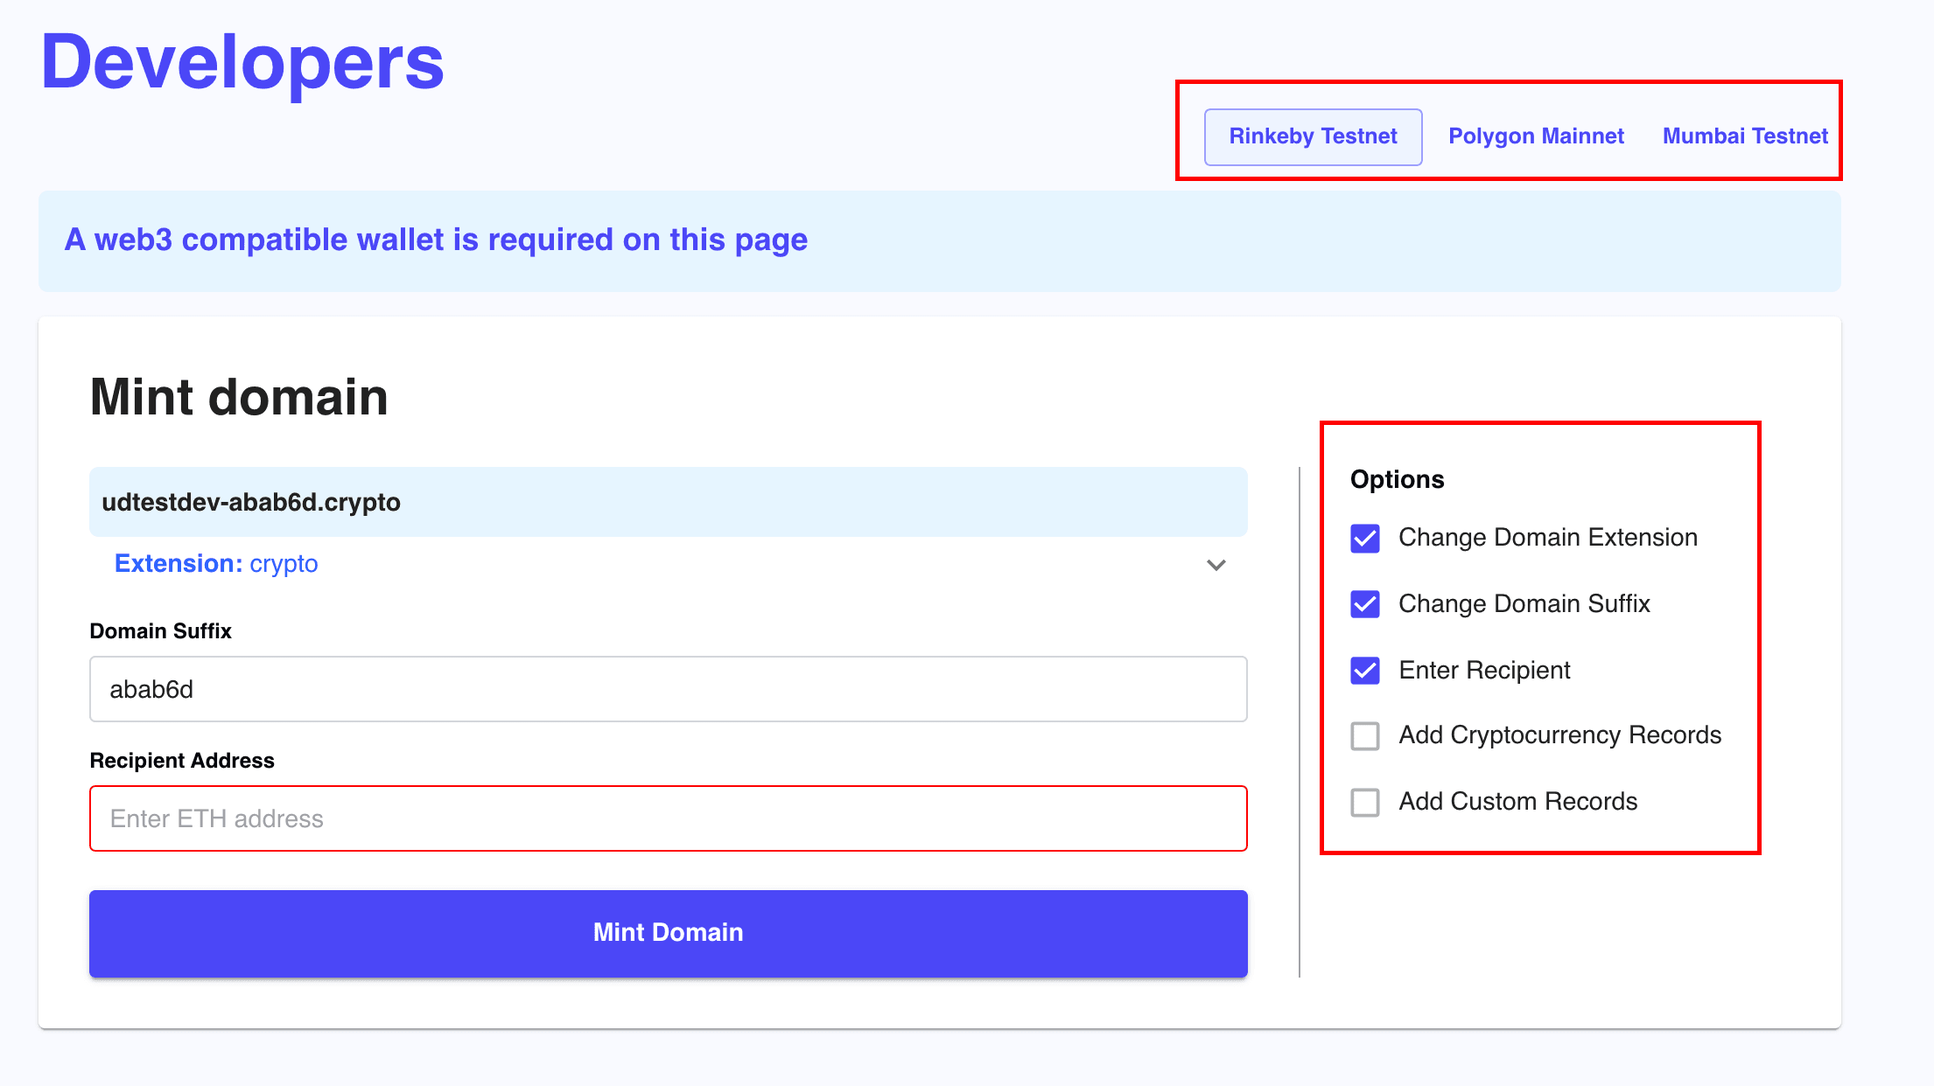
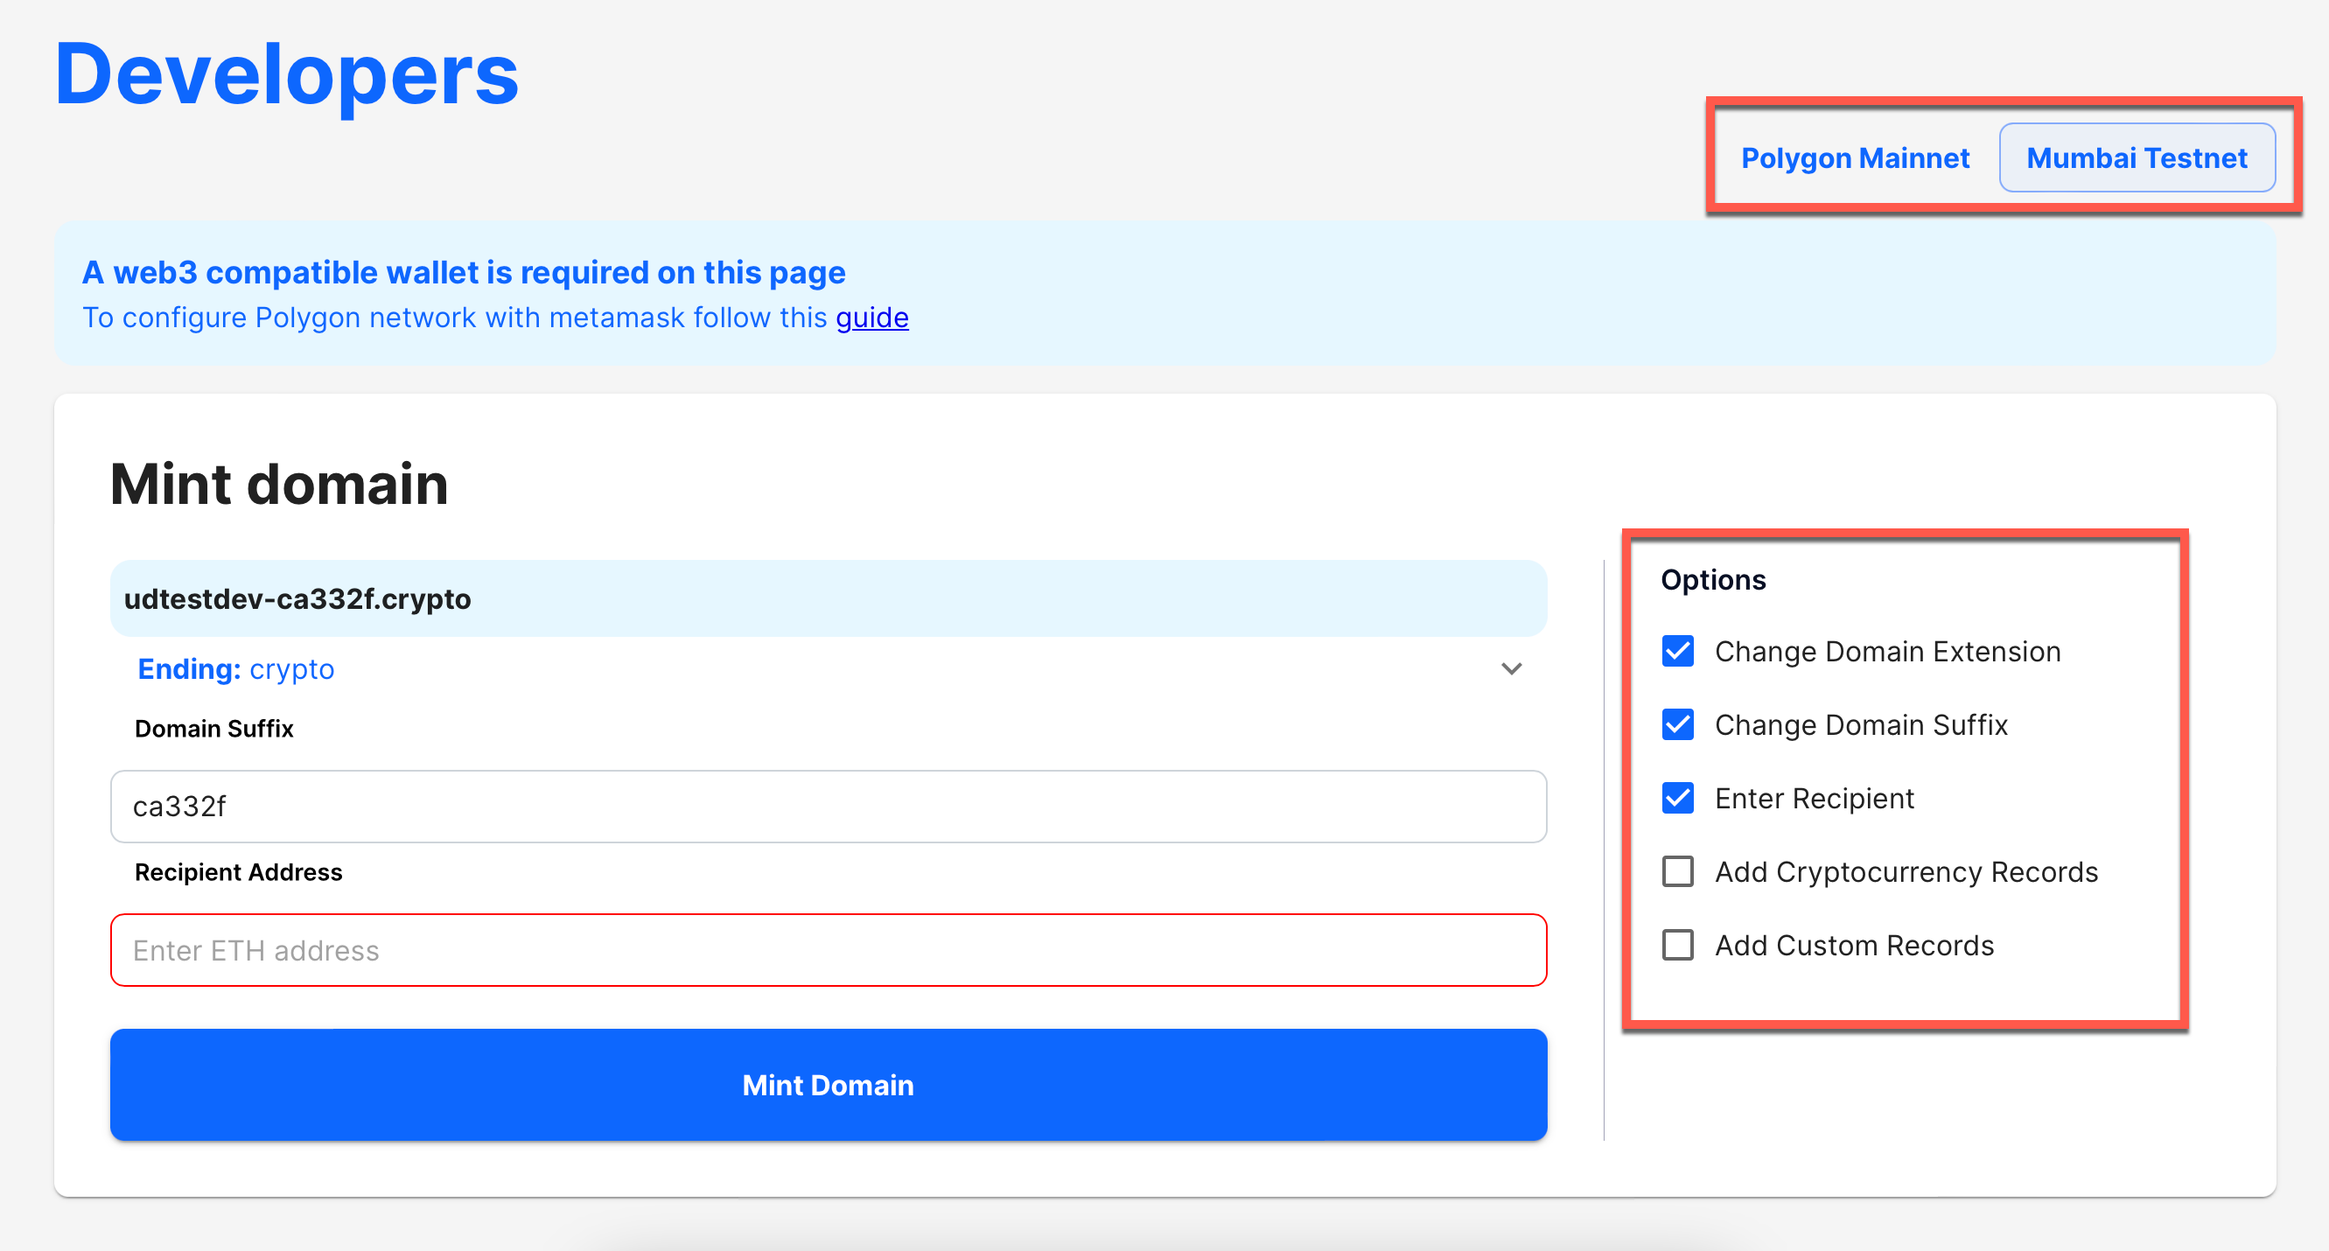
update the test domains faucet guide

diff --git a/login-with-unstoppable/humanity-check-faq.md b/login-with-unstoppable/humanity-check-faq.md
@@ -17,28 +17,28 @@ Yes, because it is a decentralized KYC solution.
 
 Yes.
 
-## How/where is user data stored? How do they know their data is safe? 
+## How/where is user data stored? How do they know their data is safe?
 
 Persona is an identity verification industry leader and works with cryptocurrency exchanges such as BlockFi, Swan, Dacxi and TantraLabs, as well as companies such as Square and Postmates to help facilitate identity verification. Persona securely stores all photos of identity documents that you upload, photos of your face that you upload, and data from scans of facial geometry extracted from the photos of your face that you upload in an encrypted format on their servers.
 
-Persona will not sell, lease, trade, or, other than to provide the Verification to their partners.  Persona will not disclose, redisclose, or otherwise disseminate data from scans of facial geometry extracted from the photos of your face that you upload unless doing so: 
+Persona will not sell, lease, trade, or, other than to provide the Verification to their partners.  Persona will not disclose, redisclose, or otherwise disseminate data from scans of facial geometry extracted from the photos of your face that you upload unless doing so:
 
 * A. Completes a Customer transaction requested and authorized by you or your legally authorized representative;
 * B. Is required by state or federal law, or municipal ordinance;
-* C. Is required pursuant to a warrant or subpoena issued by a court of competent jurisdiction; 
+* C. Is required pursuant to a warrant or subpoena issued by a court of competent jurisdiction;
 * or D. Is expressly consented to by you.
 
 Persona does not use, share, rent or sell the Personal Data of our Users’ Customers for interest-based advertising. We do not sell or rent the Personal Data of our Users, their Customers or our Site visitors.
 
 See the [Persona Security and Privacy](https://withpersona.com/security) page for more information.
 
-## What happens to user personal data? Is it stored on web2? 
+## What happens to user personal data? Is it stored on web2?
 
 Persona collects a set of information (documentary, selfie, non-documentary) to identify users, and deter would-be fraudsters. This information is stored in a dashboard to track verifications and corresponding decisions (pass / fail).
 
 However, Unstoppable Domains and Login With Unstoppable-integrated apps **do not have access** to this data. They only have access to the randomized **Persona ID** that is generated by the verification process.
 
-## Does UD have access to personal data? 
+## Does UD have access to personal data?
 
 **NO**, once users verify they are given a randomly-generated number that represents their Persona ID number.  
 
@@ -46,27 +46,27 @@ However, Unstoppable Domains and Login With Unstoppable-integrated apps **do not
 
 The randomized **Persona ID** that is created during the verification process is off-chain data. The personal information (selfie photo and photo of ID) is held on Persona’s server.
 
-## Does this mean Unstoppable Domains is becoming a centralized entity? 
+## Does this mean Unstoppable Domains is becoming a centralized entity?
 
 No.
 
-## Is there a roadmap to move this process to web3? 
+## Is there a roadmap to move this process to web3?
 
 We partner on the identity verification side of the humanity check. To be fully decentralized we’d need an identity provider that was decentralized. Due to the nature of how the personal identity is verified, finding such a provider may be a few years out. We are open to suggestions if the community has a decentralized identity provider recommendation for partnership.
 
-## Why not use other services like bright ID? 
+## Why not use other services like bright ID?
 
 UD does due diligence on all its partners and is always looking for new ones. UD uses their current partner because of their trust in the space
 
-## Wouldn’t some partners rather have more personal data access and control? 
+## Wouldn’t some partners rather have more personal data access and control?
 
 There are a number of advantages for decentralized apps to use humanity check with login with unstoppable versus partner with an identity provider themselves.
 
-1. Dapps won’t need to manage PII data 
-2. Dapps don’t need to pay for verifications
-3. Dapp users can go through humanity check once and use the check across every integrated dapp for Unstoppable Domains.
+1. DApps won’t need to manage PII data
+2. DApps don’t need to pay for verifications
+3. DApp users can go through humanity check once and use the check across every integrated DApp for Unstoppable Domains.
 
-## Can users attach the same unique ID to several wallets/domains? 
+## Can users attach the same unique ID to several wallets/domains?
 
 No. The Persona ID is associated with a single Web3 domain.
 

diff --git a/getting-started/test-domains/faucet.md b/getting-started/test-domains/faucet.md
@@ -7,34 +7,34 @@ description: This page describes the process for requesting a free test domain a
 
 <embed src="/snippets/_test-domain-explain.md" />
 
-:::warning important
-The [Partner API](/partner/integration-paths.md) only supports Polygon Layer2 Network. And, for [Login with Unstoppable](/login-with-unstoppable/get-started-login.md), applications must use **Polygon Mainnet** as the domain network.
+:::warning
+The [Partner API](/partner/index.md) only supports Polygon Layer2 Network. And, for [Login with Unstoppable](/login-with-unstoppable/get-started-login.md), it can be integrated with any EVM-compatible DApp. However, domains minted on testnets (e.g. Mumbai or Goerli) are not supported.
 :::
 
 ## Step 1: Gather Requirements for the Website Faucet
 
 * A Web3 compatible wallet
-* Configure your wallet for [Goerli Testnet](etherscan.md#step-1-check-wallet-compatibility-for-etherscan) or [Polygon/Mumbai](polygonscan.md#step-1-configure-your-metamask-wallet-for-polygon)
-* Get[ free Ether from Goerli faucet](etherscan.md#step-2-get-free-ether-from-goerli-faucet) or [free MATIC tokens from Polygon faucet](polygonscan.md#step-2-get-free-matic-tokens-from-polygon-faucet) to cover transaction fees (only for Goerli and Mumbai Testnet)
-* Ensure you have funds in your wallet to pay transaction fees (only for Polygon Mainnet)
+* Configure your wallet for the [Polygon/Mumbai](/polygon/add-polygon-to-metamask.md) network
+* Get [free MATIC tokens from Polygon faucet](/polygon/get-polygon-test-tokens.md) to cover transaction fees (only for Mumbai testnet)
+* Ensure you have funds in your wallet to pay transaction fees
 
 :::info
-Domains on Polygon Mainnet can be purchased for free through Unstoppable Website Faucet, but members will need to cover their own gas fees to mint the domain.
+Domains on Polygon mainnet can be purchased for free through Unstoppable Website Faucet, but members will need to cover their own gas fees to mint the domain.
 :::
 
 ## Step 2: Configure the Test Domain
 
 * Go to the [Unstoppable Website Faucet](https://unstoppabledomains.com/developers/testdomain) page for developers.
-* Select the network for the domain: **Goerli Testnet**, **Polygon Mainnet,** or **Mumbai Testnet**.
+* Select the network for the domain: **Polygon Mainnet** or **Mumbai Testnet**.
 * Configure the domain options:
-  * **domain ending**: .888, .crypto, .x, .wallet, .bitcoin, .nft, .dao, .blockchain
-  * **domain suffix**: the part of the domain the follows `udtestdev-`
-  * **recipient address**: must enter ETH address (required)
-  * **cryptocurrency records**: add optional cryptocurrency addresses, such as bitcoin or litecoin
-  * **custom records**: add optional key and value pairs
+  * **domain ending:** .crypto, .wallet, .blockchain, .bitcoin, .x, .888, .nft, .dao, .zil
+  * **domain suffix:** the part of the domain the follows `udtestdev-`
+  * **recipient address:** must enter Polygon address (required)
+  * **cryptocurrency records:** add optional cryptocurrency addresses, such as Bitcoin or Litecoin
+  * **custom records:** add optional key and value pairs
 
-:::info reminder
-The [Partner API](/partner/integration-paths.md) only supports Polygon Layer2 Network. And, for [Login with Unstoppable](/login-with-unstoppable/get-started-login.md), applications must use **Polygon Mainnet** as the domain network.
+:::warning
+The [Partner API](/partner/index.md) only supports Polygon Layer2 Network. And, for [Login with Unstoppable](/login-with-unstoppable/get-started-login.md), it can be integrated with any EVM-compatible DApp. However, domains minted on testnets (e.g. Mumbai or Goerli) are not supported.
 :::
 
 <figure>

diff --git a/login-with-unstoppable/get-started-login.md b/login-with-unstoppable/get-started-login.md
@@ -36,7 +36,7 @@ There are several ways to integrate with Login with Unstoppable, which are liste
 
 Because pop-ups are a more integration friendly approach, every integration path except for **Login without Pop-up** and **Node.js Server** uses them by default. You can use redirects instead with the `login()` method of `@uauth/js` or the `shouldLoginWithRedirect` configuration option for other `@uauth/*` libraries.
 
-For dApps built with web3 libraries like `web3-react`, `web3-modal`, `web3-onboard`, and `moralis`, UAuth provides packages that help you wrap a new UAuth instance in an interface that each library supports. After configuring these packages, you can continue using the web3 library normally.
+For DApps built with web3 libraries like `web3-react`, `web3-modal`, `web3-onboard`, and `moralis`, UAuth provides packages that help you wrap a new UAuth instance in an interface that each library supports. After configuring these packages, you can continue using the web3 library normally.
 
 | Integration Guide                                                                               |                                         Example Project                                     |   Web3 Provider   | Package             |     Front-end UI   |
 |-------------------------------------------------------------------------------------------------| :-----------------------------------------------------------------------------------------: | :---------------: |:-------------------:|:------------------:|
@@ -47,7 +47,7 @@ For dApps built with web3 libraries like `web3-react`, `web3-modal`, `web3-onboa
 | [Web3 Onboard](/login-with-unstoppable/login-integration-guides/web3-onboard-guide.md)          | [web3-onboard](https://github.com/unstoppabledomains/uauth/blob/main/examples/web3-onboard/)|       &#9989;     |`@uauth/web3-onboard`|   `web3-onboard`   |
 | [Moralis](/login-with-unstoppable/login-integration-guides/moralis-guide.md)                    | [moralis](https://github.com/unstoppabledomains/uauth/blob/main/examples/moralis)           |       &#9989;     |`@uauth/moralis`     |     `moralis`      |
 | [Node.js Server](/login-with-unstoppable/login-integration-guides/node-js-server-guide.md)      | [server](https://github.com/unstoppabledomains/uauth/tree/main/examples/server)             |       &#10060;    |`@uauth/node`        |        None        |
-| [Auth0](/login-with-unstoppable/login-integration-guides/auth0-guide.md)                        | [UAuth + Auth0 ](https://github.com/unstoppabledomains/uauth-auth0-sample-dapp)     |       &#10060;    |      `auth0`        |       `auth0`      | 
+| [Auth0](/login-with-unstoppable/login-integration-guides/auth0-guide.md)                        | [UAuth + Auth0 ](https://github.com/unstoppabledomains/uauth-auth0-sample-dapp)     |       &#10060;    |      `auth0`        |       `auth0`      |
 
 :::info
 See the [UAuth Example App](https://example.auth.unstoppabledomains.com/) for a live demo of the login flow.
@@ -59,6 +59,6 @@ Login with Unstoppable has UI requirements that must be configured to properly d
 
 ## Step 4: Promote Your Application
 
-Once your integration is live, you can [promote your application](/use-cases/promote-ud-integration.md) by submitting it to the official UD [app integrations database](https://unstoppabledomains.com/apps). 
+Once your integration is live, you can [promote your application](/use-cases/promote-ud-integration.md) by submitting it to the official UD [app integrations database](https://unstoppabledomains.com/apps).
 
 <embed src="/snippets/_discord.md" />

diff --git a/login-with-unstoppable/libraries/uauth-js.md b/login-with-unstoppable/libraries/uauth-js.md
@@ -70,11 +70,11 @@ async user(options: UserOptions = {}): Promise<UserInfo>
 
 ### getVerifiedAccounts()
 
-Returns [VerifiedAddress](#verifiedaddress) array containing all verified accounts associated with an authorized domain, with optional symbol filtering, which allows a dapp to request only the verified accounts they are interested in.
+Returns [VerifiedAddress](#verifiedaddress) array containing all verified accounts associated with an authorized domain, with optional symbol filtering, which allows a DApp to request only the verified accounts they are interested in.
 
 ```typescript
 getVerifiedAccounts(
-  authorization: Authorization, 
+  authorization: Authorization,
   symbols: string[] = []
 ): VerifiedAddress[]
 ```
@@ -85,8 +85,8 @@ The UAuth service allows users to login with certain verified accounts associate
 
 ```typescript
 getAuthorizationAccount(
-    authorization: Authorization, 
-    type = 'sig', 
+    authorization: Authorization,
+    type = 'sig',
     version = 'v1'
 ): VerifiedAddress | undefined
 ```
@@ -251,11 +251,11 @@ interface UserInfo {
   wallet_type_hint: WalletType
   eip4361_message: string
   eip4361_signature: string
-            
+
 // Partial<EmailClaims>
   email: string
   email_verified: boolean
-            
+
 // Partial<AddressClaims>
   address: AddressClaim
 
@@ -278,7 +278,7 @@ interface UserInfo {
   zoneinfo: string
   locale: string
   updated_at: string
-            
+
 // Partial<HumanityCheckClaims> { sub: string }
   humanity_check_id: string
 }

diff --git a/login-with-unstoppable/scopes-for-login.md b/login-with-unstoppable/scopes-for-login.md
@@ -79,7 +79,7 @@ The Login with Unstoppable `wallet` scope is best used for retrieving metadata a
 
 The Login with Unstoppable `email` scope can be used to retrieve the users's `domain.tld@ud.me` [Unstoppable Email](https://support.unstoppabledomains.com/support/solutions/articles/48001218107-unstoppable-email) address, which provides Unstoppable Domain owners with a proxy email service that doesn't share their private address.
 
-Unstoppable email is disabled for domains by default. If a user has not enabled this feature but consents to the `email` scope, a unique, dApp-specific email address is generated and authorized for their domain. This unique email address is then returned in the `email` claim.
+Unstoppable email is disabled for domains by default. If a user has not enabled this feature but consents to the `email` scope, a unique, DApp-specific email address is generated and authorized for their domain. This unique email address is then returned in the `email` claim.
 
 ## humanity_check
 `optional: true`

diff --git a/polygon/polygon-migration-guide.md b/polygon/polygon-migration-guide.md
@@ -11,7 +11,7 @@ There will be minimal changes to Unstoppable Domains’ resolution libraries and
 
 Polygon apps will resolve domains by reading [UNS Smart Contracts](/developer-toolkit/reference/smart-contracts/uns-smart-contracts.md#interfaces) housed on Polygon. Developers can also go directly to the [Smart Contracts Repo](https://github.com/unstoppabledomains/uns/blob/main/Contracts.md) to help with integration.
 
-To further assist with L2, the Polygon team will be adding Unstoppable Domains resolution to their API and Matic.js library. This will make it easier, for example, for Polygon apps to use domains for payments in wallets and login with dapps.
+To further assist with L2, the Polygon team will be adding Unstoppable Domains resolution to their API and Matic.js library. This will make it easier, for example, for Polygon apps to use domains for payments in wallets and login with DApps.
 
 ## Resolution Library Updates
 

diff --git a/login-with-unstoppable/login-protocols/authorization-server.md b/login-with-unstoppable/login-protocols/authorization-server.md
@@ -86,7 +86,7 @@ For domains owned by multisig wallets, owner-based authentication isn’t suffic
 The below fields are used to specify a public key that can be used for authentication.
 
 :::info
-It’s recommended that dApps support the web3 and oob methods at a minimum.
+It’s recommended that DApps support the web3 and oob methods at a minimum.
 :::
 
 | Field            | Description                                                                                                                                                                                                                                              |

diff --git a/polygon/add-polygon-to-metamask.md b/polygon/add-polygon-to-metamask.md
@@ -40,7 +40,7 @@ Click the `Add a network` button on the network settings page:
 
 Then, fill the network configuration for the Polygon network you want to add (mainnet or testnet) into the fields displayed in MetaMask.
 
-| Field Name | Polygon mainnet | Polygon testnet (Mumbai) |
+| Field Name | Polygon Mainnet | Polygon Testnet (Mumbai) |
 | - | - | - |
 | Network Name | Polygon | Mumbai |
 | New RPC URL | https://polygon-rpc.com/ | https://polygon-mumbai.infura.io/v3/4458cf4d1689497b9a38b1d6bbf05e78 |

diff --git a/snippets/_test-domain-explain.md b/snippets/_test-domain-explain.md
@@ -1,4 +1,4 @@
-To make integrations easier, Unstoppable Domains provides developers with a free test domain. You can use any available domain ending for your free test domain (except .zil).
+To make integrations easier, Unstoppable Domains provides developers with a free test domain. You can use any available domain ending for your free test domain.
 
 To distinguish these test domains from paid domains, all test domains are prefixed with `udtestdev-`. For example:
 

diff --git a/developer-toolkit/advanced-use-cases/resolve-domains-browser/browser-resolution-overview.md b/developer-toolkit/advanced-use-cases/resolve-domains-browser/browser-resolution-overview.md
@@ -1,6 +1,6 @@
 ---
 title: Browser Resolution Overview | Unstoppable Domains Developer Portal
-description: This page provides a high level overview of how UD Resolution works when resolving domains using a traditional HTTP Web Browser or a Dapp Browser.
+description: This page provides a high level overview of how UD Resolution works when resolving domains using a traditional HTTP Web Browser or a DApp Browser.
 ---
 
 # How Browser Resolution Works

diff --git a/snippets/_login-mainnet-warning.md b/snippets/_login-mainnet-warning.md
@@ -1,3 +1,3 @@
 :::warning
-Login with Unstoppable can be integrated with any EVM-compatible dApp. However, domains minted on testnets (e.g. Mumbai or Goerli) are not supported.
+Login with Unstoppable can be integrated with any EVM-compatible DApp. However, domains minted on testnets (e.g. Mumbai or Goerli) are not supported.
 :::
